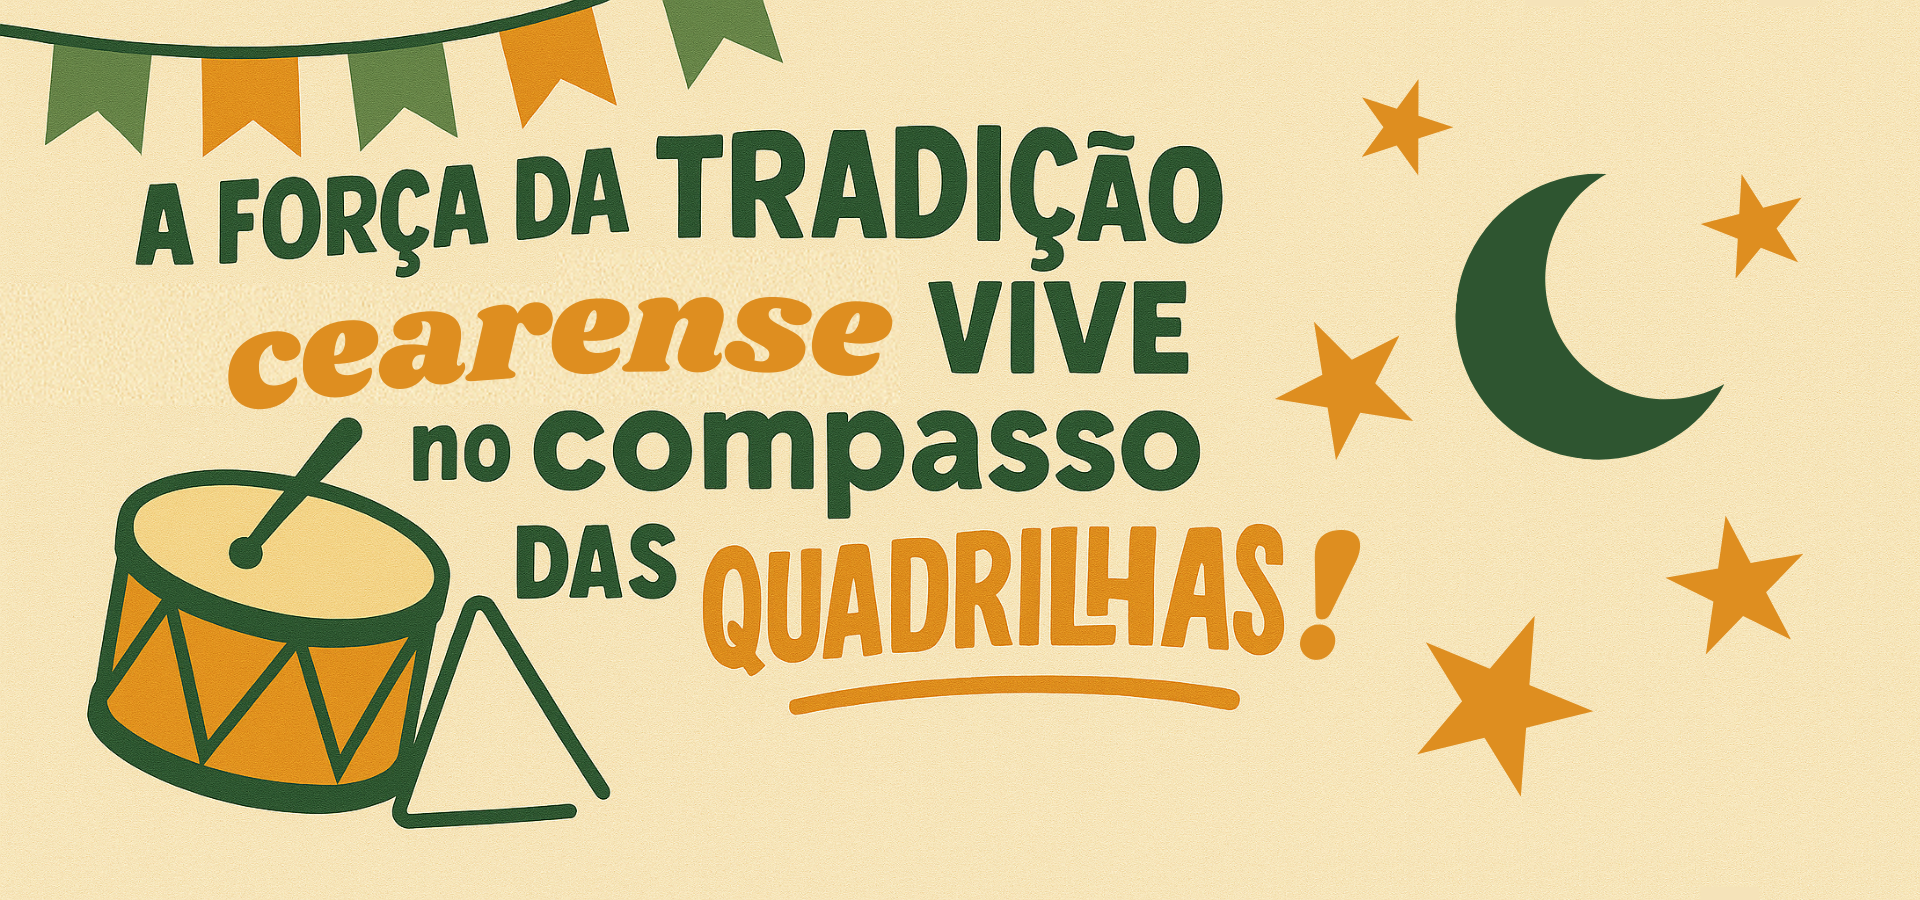
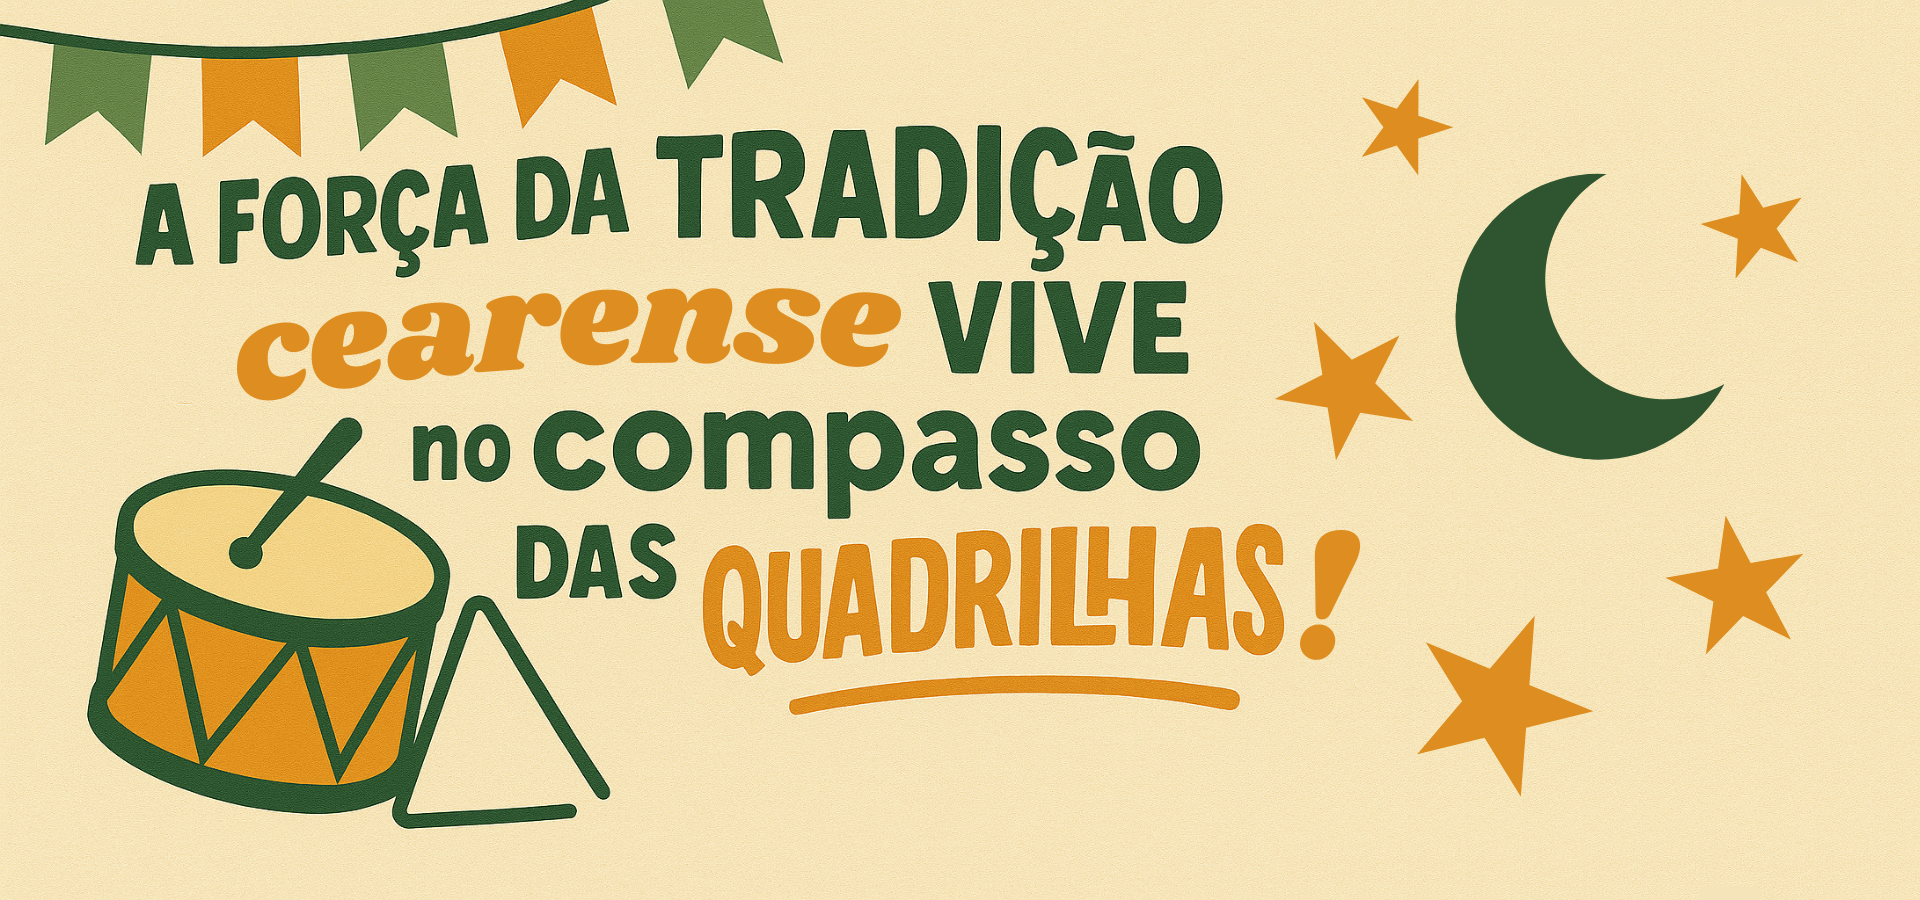
Consertando tamanho do carrossel e arte

Changed region(s): [[0.0938, 0.3111, 0.4688, 0.4667]]

diff --git a/index.html b/index.html
@@ -34,28 +34,33 @@
     <!--começando contudo principal da pagina-->
     <main>
         <!--Carrossel de imagens principais da página-->
-        <section class="banner banner2">
-           <div id="carouselExample" class="carousel slide">
-                    <div class="carousel-inner">
-                        <div class="carousel-item active">
-                            <img src="img/2.png" class="d-block w-100" alt="banner">
-                        </div>
-                        <div class="carousel-item">
-                            <img src="img/3.png" class="d-block w-100" alt="banner">
-                        </div>
-                        <div class="carousel-item">
-                            <img src="img/4.png" class="d-block w-100" alt="banner">
-                        </div>
-                         <button class="carousel-control-prev" type="button" data-bs-target="#carouselExample" data-bs-slide="prev">
-      <span class="carousel-control-prev-icon"></span>
-      <span class="visually-hidden">Anterior</span>
-    </button>
-    <button class="carousel-control-next" type="button" data-bs-target="#carouselExample" data-bs-slide="next">
-      <span class="carousel-control-next-icon"></span>
-      <span class="visually-hidden">Próximo</span>
-    </button>
-  </div>
+        <section class="bannerbanner2">
+            <div id="carouselExample" class="carousel slide" data-bs-ride="carousel">
+                <div class="carousel-inner">
+                    <div class="carousel-item active">
+                        <img src="img/1.png" class="d-block carousel-img" alt="banner">
+                    </div>
+                    <div class="carousel-item">
+                        <img src="img/2.png" class="d-block carousel-img" alt="banner">
+                    </div>
+                    <div class="carousel-item">
+                        <img src="img/3.png" class="d-block carousel-img" alt="banner">
+                    </div>
+                </div>
+                <button class="carousel-control-prev" type="button" data-bs-target="#carouselExample"
+                    data-bs-slide="prev">
+                    <span class="carousel-control-prev-icon"></span>
+                    <span class="visually-hidden">Anterior</span>
+                </button>
+                <button class="carousel-control-next" type="button" data-bs-target="#carouselExample"
+                    data-bs-slide="next">
+                    <span class="carousel-control-next-icon"></span>
+                    <span class="visually-hidden">Próximo</span>
+                </button>
+            </div>
         </section>
+
+
         <!--Sobre da pagina-->
         <section id="sobre" class="sobre">
             <h2>SOBRE</h2>
@@ -181,49 +186,51 @@
         </section>
         <section id="galeria">
             <div class="gallery">
-               <h2>GALERIA</h2>
-<div id="carouselgal" class="carousel slide" data-bs-ride="carousel">
-    <div class="carousel-inner">
-        <div class="carousel-item active">
-            <img src="img/imgcarrossel1.jpg" class="d-block w-100" alt="...">
-        </div>
-        <div class="carousel-item">
-            <img src="img/imgcarrossel2.jpg" class="d-block w-100" alt="...">
-        </div>
-        <div class="carousel-item">
-            <img src="img/imgcarrossel3.jpg" class="d-block w-100" alt="...">
-        </div>
-        <div class="carousel-item">
-            <img src="img/imgcarrossel4.jpg" class="d-block w-100" alt="...">
-        </div>
-        <div class="carousel-item">
-            <img src="img/imgcarrossel5.jpg" class="d-block w-100" alt="...">
-        </div>
-    </div>
+                <h2>GALERIA</h2>
+                <div id="carouselgal" class="carousel slide" data-bs-ride="carousel">
+                    <div class="carousel-inner">
+                        <div class="carousel-item active">
+                            <img src="img/imgcarrossel1.jpg" class="d-block w-100" alt="...">
+                        </div>
+                        <div class="carousel-item">
+                            <img src="img/imgcarrossel2.jpg" class="d-block w-100" alt="...">
+                        </div>
+                        <div class="carousel-item">
+                            <img src="img/imgcarrossel3.jpg" class="d-block w-100" alt="...">
+                        </div>
+                        <div class="carousel-item">
+                            <img src="img/imgcarrossel4.jpg" class="d-block w-100" alt="...">
+                        </div>
+                        <div class="carousel-item">
+                            <img src="img/imgcarrossel5.jpg" class="d-block w-100" alt="...">
+                        </div>
+                    </div>
 
-    <button class="carousel-control-prev" type="button" data-bs-target="#carouselgal" data-bs-slide="prev">
-        <span class="carousel-control-prev-icon" aria-hidden="true"></span>
-        <span class="visually-hidden">Anterior</span>
-    </button>
-    <button class="carousel-control-next" type="button" data-bs-target="#carouselgal" data-bs-slide="next">
-        <span class="carousel-control-next-icon" aria-hidden="true"></span>
-        <span class="visually-hidden">Próximo</span>
-    </button>
-    </div>
+                    <button class="carousel-control-prev" type="button" data-bs-target="#carouselgal"
+                        data-bs-slide="prev">
+                        <span class="carousel-control-prev-icon" aria-hidden="true"></span>
+                        <span class="visually-hidden">Anterior</span>
+                    </button>
+                    <button class="carousel-control-next" type="button" data-bs-target="#carouselgal"
+                        data-bs-slide="next">
+                        <span class="carousel-control-next-icon" aria-hidden="true"></span>
+                        <span class="visually-hidden">Próximo</span>
+                    </button>
+                </div>
         </section>
         <footer id="rodape">
             <div class="patrocinadores">
-            <div class="pat_ins">
-                <p>Patrocinador Institucional</p>
-                <img src="img/logoCeara.png" alt="Logo do Governo do Ceará" width="100px">
-            </div>
-            <div class="pat">
-                <p>Patrocinador Oficial</p>
-                <div class="pat_ofc">
-                    <img src="img/patrocinio1.png" alt="Logo Zuvy">
+                <div class="pat_ins">
+                    <p>Patrocinador Institucional</p>
+                    <img src="img/logoCeara.png" alt="Logo do Governo do Ceará" width="100px">
+                </div>
+                <div class="pat">
+                    <p>Patrocinador Oficial</p>
+                    <div class="pat_ofc">
+                        <img src="img/patrocinio1.png" alt="Logo Zuvy">
+                    </div>
                 </div>
             </div>
-        </div>
             <div class="redes" id="redes">
                 <a href="#"><img src="img/Tiktok_Icon.png" alt="Ícone Tiktok">@cearajunino</a>
                 <a href="#"><img src="img/Instagram_Icon.png" alt="Ícone Instagram">@cearajunino</a>

diff --git a/style.css b/style.css
@@ -554,7 +554,20 @@ input::placeholder {
 }
 
 .gallery {
-  width: 60%;
+  width: 70%;
   margin: auto;
   font-size: 22px;
+}
+
+
+.bannerbanner2 {
+  height: 90%;
+  margin: 0;
+  padding: 0;
+}
+
+.carousel-img {
+  width: 100%;
+  height: 100%;
+  object-fit: cover;
 }
